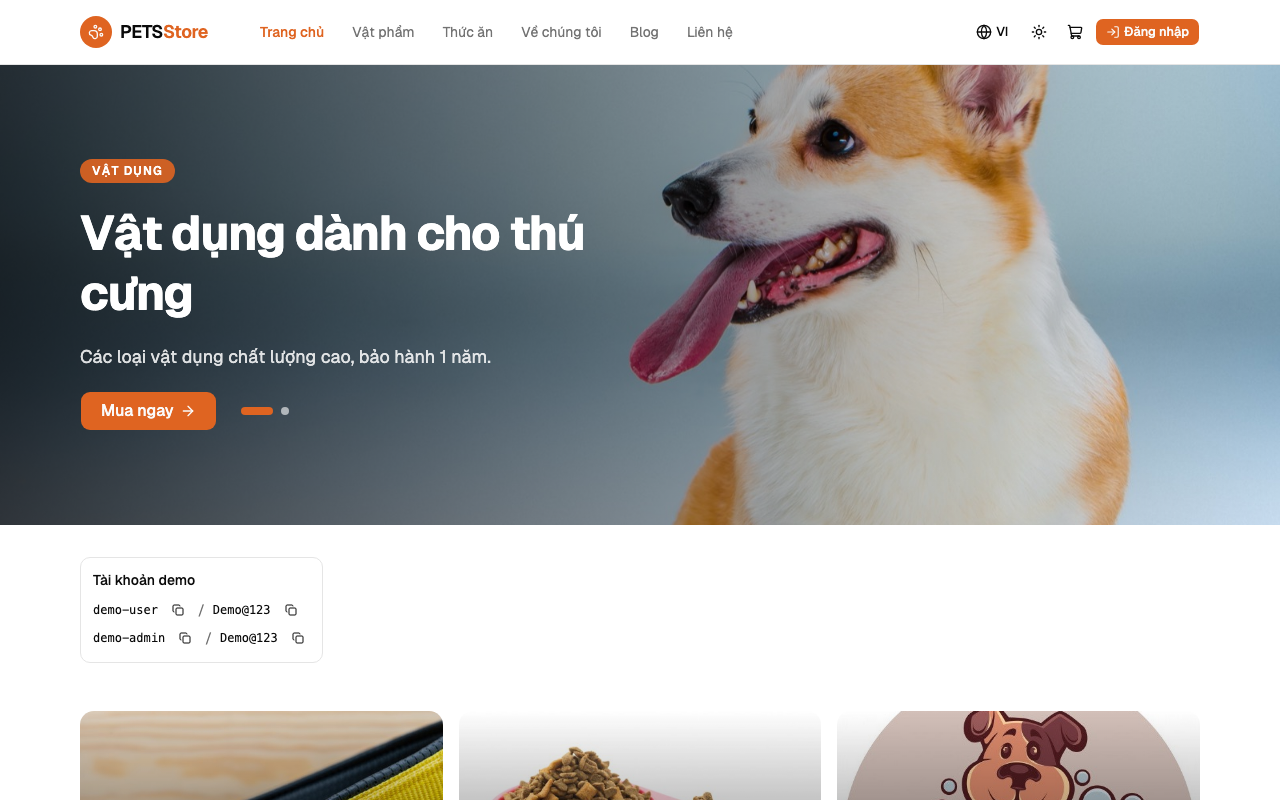
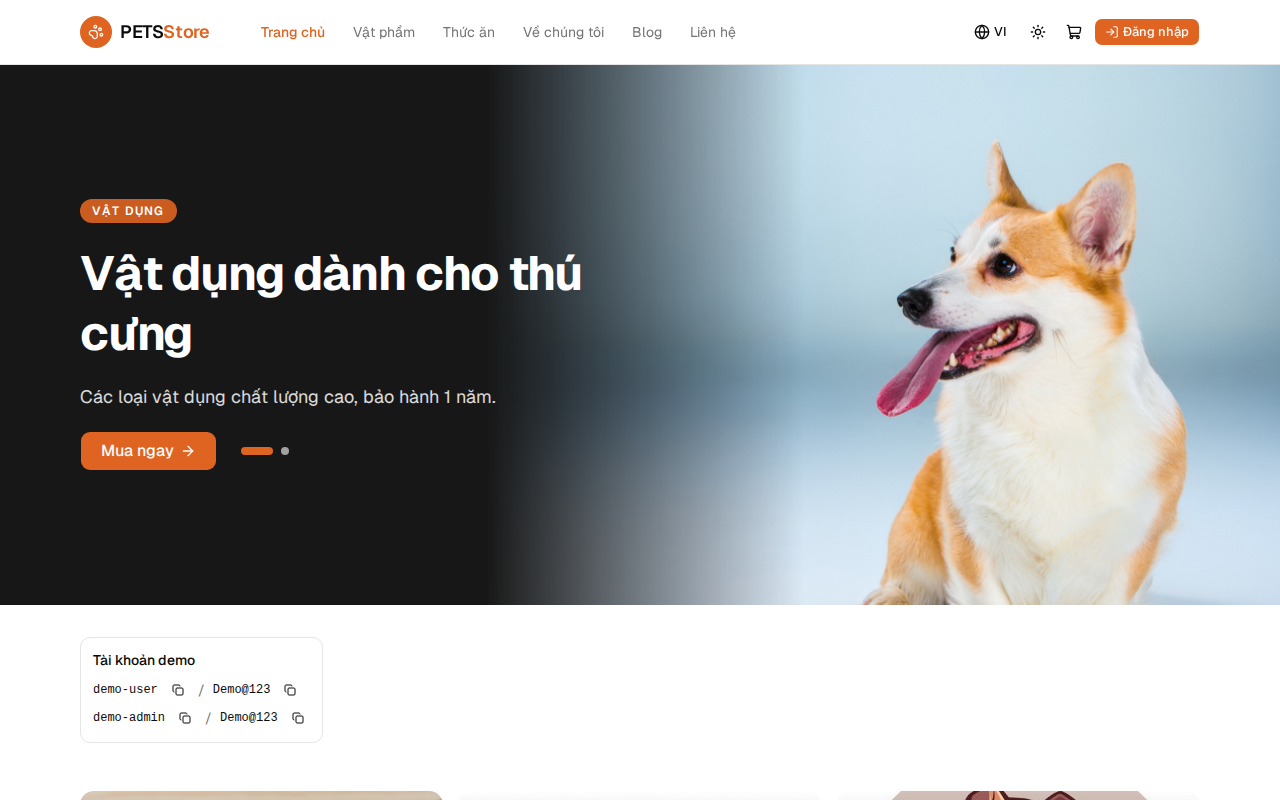
feat(web): trang chủ nổi bật 8 sản phẩm + thức ăn, hashtag #PETSStore, sửa hero (#9)
* feat(web): trang chủ hiện 8 sản phẩm nổi bật trộn DOG/CAT và khối thức ăn nổi bật

* fix(web): hashtag thư viện ảnh đổi thành #PETSStore

* fix(web): hero giữ khung cố định, thấy cả đầu chó ở 390/768/1280/1920 và dark mode

* chore(web): mixByType không cần export

* docs(web): chụp lại ảnh trang chủ sáng và dark

diff --git a/web/src/pages/Home.tsx b/web/src/pages/Home.tsx
@@ -1,17 +1,19 @@
 import { ArrowRight } from 'lucide-react'
-import { useState } from 'react'
+import { useState, type CSSProperties } from 'react'
 import { useTranslation } from 'react-i18next'
 import { Link } from 'react-router-dom'
 import { useAuth } from '@/auth/context'
 import { DemoAccounts } from '@/components/DemoAccounts'
-import { useCatalog } from '@/api/queries'
-import { ProductCard } from '@/components/ProductCard'
+import { FeaturedSection } from '@/components/FeaturedSection'
 import { Button } from '@/components/ui/button'
-import { Skeleton } from '@/components/ui/skeleton'
 import { posts } from '@/data/blog'
 import { formatDate } from '@/lib/format'
 
-const slideImages = ['/img/hero/1.jpg', '/img/hero/a.jpg']
+// object-position keeps the dog's head (eyes, nose) inside the crop; [mobile, desktop]
+const slideImages = [
+  { src: '/img/hero/1.jpg', pos: ['68% 38%', '60% 24%'] },
+  { src: '/img/hero/a.jpg', pos: ['100% 35%', '90% 25%'] },
+]
 const slideLinks = ['/shop/products', '/shop/foods']
 
 export function Home() {
@@ -20,17 +22,21 @@ export function Home() {
   const [i, setI] = useState(0)
   const slide = slides[i]
   const { user } = useAuth()
-  const featured = useCatalog('products', { size: 4, page: 0, sort: 'price,desc' })
 
   return (
     <>
-      <section className="relative isolate overflow-hidden">
-        <img src={slideImages[i]} alt="" className="absolute inset-0 -z-10 size-full object-cover" />
-        <div className="absolute inset-0 -z-10 bg-gradient-to-r from-black/75 via-black/40 to-transparent" />
-        <div className="mx-auto flex min-h-[460px] max-w-6xl flex-col justify-center gap-5 px-4 py-16 text-white">
+      <section className="relative isolate h-[640px] overflow-hidden bg-neutral-900 md:h-[500px] lg:h-[540px]">
+        <div className="absolute inset-x-0 bottom-0 -z-10 h-[48%] [mask-image:linear-gradient(to_bottom,transparent,black_25%)] md:inset-y-0 md:left-auto md:right-0 md:h-full md:w-[62%] md:[mask-image:linear-gradient(to_right,transparent,black_40%)]">
+          {slideImages.map((img, n) => (
+            <img key={img.src} src={img.src} alt="" width={1600} height={n ? 1066 : 1299} fetchPriority={n === 0 ? 'high' : undefined}
+              style={{ '--pos-m': img.pos[0], '--pos-d': img.pos[1] } as CSSProperties}
+              className={`absolute inset-0 size-full object-cover [object-position:var(--pos-m)] transition-opacity duration-500 md:[object-position:var(--pos-d)] dark:brightness-90 ${n === i ? 'opacity-100' : 'opacity-0'}`} />
+          ))}
+        </div>
+        <div className="mx-auto flex h-full max-w-6xl flex-col gap-5 px-4 py-10 text-white md:justify-center md:py-16">
           <span className="w-fit rounded-full bg-primary/90 px-3 py-1 text-xs font-semibold tracking-widest">{slide.tag}</span>
-          <h1 className="max-w-xl text-4xl font-bold leading-tight tracking-tight md:text-5xl">{slide.title}</h1>
-          <p className="max-w-md text-lg text-white/85">{slide.text}</p>
+          <h1 className="max-w-xl text-4xl font-bold leading-tight tracking-tight md:max-w-xs lg:max-w-xl lg:text-5xl">{slide.title}</h1>
+          <p className="max-w-md text-lg text-white/85 md:max-w-xs lg:max-w-md">{slide.text}</p>
           <div className="flex items-center gap-6">
             <Button asChild size="lg" className="h-10 px-5 text-base"><Link to={slideLinks[i]}>{slide.cta} <ArrowRight /></Link></Button>
             <div className="flex gap-2" role="tablist">
@@ -62,20 +68,8 @@ export function Home() {
         ))}
       </section>
 
-      <section className="mx-auto max-w-6xl px-4 pb-12">
-        <div className="mb-6 flex items-end justify-between">
-          <div>
-            <h2 className="text-2xl font-semibold tracking-tight">{t('home.featured')}</h2>
-            <p className="text-muted-foreground">{t('home.featuredSub')}</p>
-          </div>
-          <Button asChild variant="ghost"><Link to="/shop/products">{t('home.banners.shop')} <ArrowRight /></Link></Button>
-        </div>
-        <div className="grid grid-cols-2 gap-4 md:grid-cols-4">
-          {featured.isPending
-            ? Array.from({ length: 4 }, (_, n) => <Skeleton key={n} className="aspect-[3/4]" />)
-            : featured.data?.items.map((p) => <ProductCard key={p.id} kind="products" item={p} />)}
-        </div>
-      </section>
+      <FeaturedSection kind="products" title={t('home.featured')} sub={t('home.featuredSub')} count={8} />
+      <FeaturedSection kind="foods" title={t('home.featuredFoods')} sub={t('home.featuredFoodsSub')} count={4} />
 
       <section className="bg-muted/40 py-12">
         <div className="mx-auto max-w-6xl px-4">

diff --git a/web/src/components/FeaturedSection.tsx b/web/src/components/FeaturedSection.tsx
@@ -1,0 +1,46 @@
+import { ArrowRight } from 'lucide-react'
+import { useTranslation } from 'react-i18next'
+import { Link } from 'react-router-dom'
+import { useCatalog } from '@/api/queries'
+import type { CatalogItem, CatalogKind } from '@/api/types'
+import { ProductCard } from '@/components/ProductCard'
+import { Button } from '@/components/ui/button'
+import { Skeleton } from '@/components/ui/skeleton'
+
+// The API has no "featured" flag: take the priciest items and deal them out one type at a time (DOG, CAT, ...).
+function mixByType(items: CatalogItem[], count: number): CatalogItem[] {
+  const groups = new Map<string, CatalogItem[]>()
+  for (const it of items) groups.set(it.type ?? '', [...(groups.get(it.type ?? '') ?? []), it])
+  const queues = [...groups.values()]
+  const out: CatalogItem[] = []
+  while (out.length < count && queues.some((q) => q.length)) {
+    for (const q of queues) if (q.length && out.length < count) out.push(q.shift()!)
+  }
+  return out
+}
+
+type Props = { kind: CatalogKind; title: string; sub: string; count: number; className?: string }
+
+export function FeaturedSection({ kind, title, sub, count, className }: Props) {
+  const { t } = useTranslation()
+  const featured = useCatalog(kind, { size: 12, page: 0, sort: 'price,desc' })
+  const items = featured.data ? mixByType(featured.data.items, count) : []
+  // 3-column tablet layout hides the items that would leave a half empty last row
+  const tabletTrim = count === 8 ? '[&>:nth-child(n+7)]:sm:max-lg:hidden' : count === 4 ? '[&>:nth-child(n+4)]:sm:max-lg:hidden' : ''
+  return (
+    <section className={`mx-auto max-w-6xl px-4 pb-12 ${className ?? ''}`} data-testid={`featured-${kind}`}>
+      <div className="mb-6 flex items-end justify-between">
+        <div>
+          <h2 className="text-2xl font-semibold tracking-tight">{title}</h2>
+          <p className="text-muted-foreground">{sub}</p>
+        </div>
+        <Button asChild variant="ghost"><Link to={`/shop/${kind}`}>{t('home.viewAll')} <ArrowRight /></Link></Button>
+      </div>
+      <div className={`grid grid-cols-2 gap-4 sm:grid-cols-3 lg:grid-cols-4 ${tabletTrim}`}>
+        {featured.isPending
+          ? Array.from({ length: count }, (_, n) => <Skeleton key={n} className="aspect-[3/4]" />)
+          : items.map((p) => <ProductCard key={p.id} kind={kind} item={p} />)}
+      </div>
+    </section>
+  )
+}

diff --git a/web/src/i18n/vi.ts b/web/src/i18n/vi.ts
@@ -19,9 +19,9 @@ export const vi = {
       { tag: 'VẬT DỤNG', title: 'Vật dụng dành cho thú cưng', text: 'Các loại vật dụng chất lượng cao, bảo hành 1 năm.', cta: 'Mua ngay' },
       { tag: 'THỨC ĂN', title: 'Đồ ăn cho thú cưng', text: 'Các loại hạt, pate, vitamin cho thú cưng.', cta: 'Mua ngay' },
     ],
-    featured: 'Sản phẩm nổi bật', featuredSub: 'Được khách hàng chọn nhiều nhất',
+    featured: 'Sản phẩm nổi bật', featuredSub: 'Được khách hàng chọn nhiều nhất', featuredFoods: 'Thức ăn nổi bật', featuredFoodsSub: 'Hạt, pate và bánh thưởng cho chó mèo', viewAll: 'Xem tất cả',
     banners: { products: 'Vật dụng', foods: 'Đồ ăn', spa: 'Dịch vụ tắm rửa thú cưng', shop: 'Mua ngay', spaCta: 'Trải nghiệm ngay' },
-    blog: 'Blog của chúng tôi', readMore: 'Đọc thêm', gallery: '#PETS_Coffee_And_Services',
+    blog: 'Blog của chúng tôi', readMore: 'Đọc thêm', gallery: '#PETSStore',
   },
   shop: {
     titleProducts: 'Vật phẩm thú cưng', titleFoods: 'Thức ăn cho vật nuôi', showing: 'Hiển thị {{count}} trên {{total}} kết quả',

diff --git a/web/src/i18n/en.ts b/web/src/i18n/en.ts
@@ -21,9 +21,9 @@ export const en: Resources = {
       { tag: 'ACCESSORIES', title: 'Everything for your pet', text: 'High-quality accessories with a 1-year warranty.', cta: 'Shop now' },
       { tag: 'FOOD', title: 'Food for your pet', text: 'Kibble, pate and vitamins for dogs and cats.', cta: 'Shop now' },
     ],
-    featured: 'Featured products', featuredSub: 'Most picked by our customers',
+    featured: 'Featured products', featuredSub: 'Most picked by our customers', featuredFoods: 'Featured food', featuredFoodsSub: 'Kibble, pate and treats for dogs and cats', viewAll: 'View all',
     banners: { products: 'Accessories', foods: 'Food', spa: 'Pet grooming service', shop: 'Shop now', spaCta: 'Try it now' },
-    blog: 'Our blog', readMore: 'Read more', gallery: '#PETS_Coffee_And_Services',
+    blog: 'Our blog', readMore: 'Read more', gallery: '#PETSStore',
   },
   shop: {
     titleProducts: 'Pet accessories', titleFoods: 'Pet food', showing: 'Showing {{count}} of {{total}} results',
